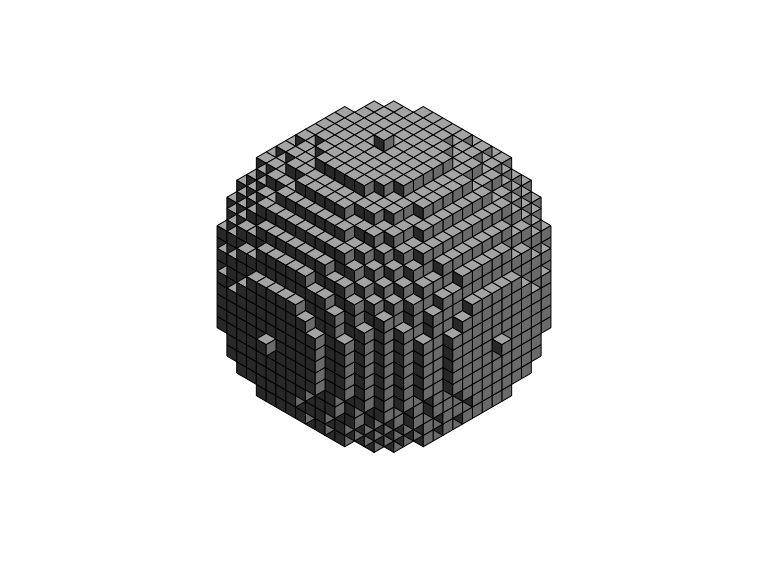
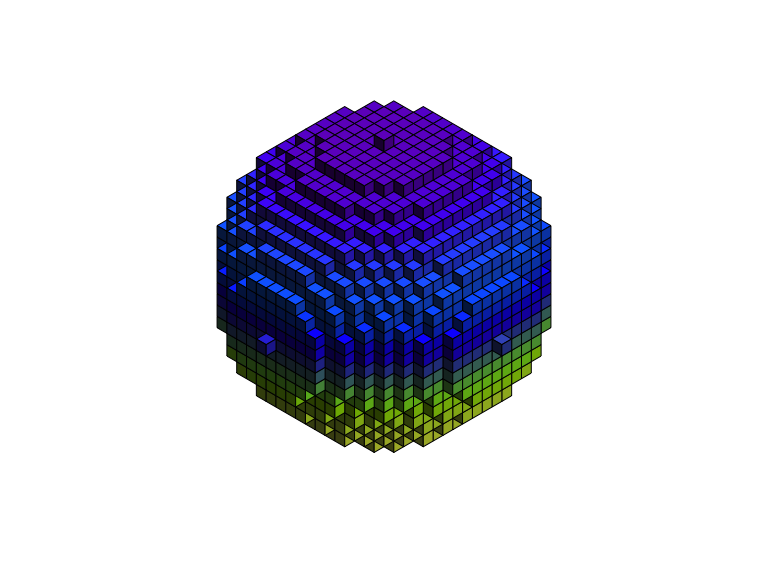
create random color palettes

Changed region(s): [[0.2812, 0.1562, 0.7188, 0.7812]]

diff --git a/README.md b/README.md
@@ -163,8 +163,8 @@ A data.frame with coordinates for a sphere can be generated with
 library(grid)
 library(isocubes)
 
-gen_sphere(r = 12) |>
-  isocubesGrob(size = 3) |>
+coords <- gen_sphere(r = 12)
+isocubesGrob(coords, size = 3, fill = rand_palette(nrow(coords), seed = 6)) |>
   grid::grid.draw()
 ```
 
@@ -443,6 +443,11 @@ isoaxesGrob(xyplane = 'left', handedness = 'right', x = 0.5, y = 0.75) |>
 <img src="man/figures/README-unnamed-chunk-13-1.png" width="100%" />
 
 ## Advanced geometry - animated!
+
+This object was created using [Constructive Solid
+Geometry](https://en.wikipedia.org/wiki/Constructive_solid_geometry)
+with [Signed Distance
+Fields](https://en.wikipedia.org/wiki/Signed_distance_function)
 
 <img src="man/figures/sdf.gif" width="100%" />
 
